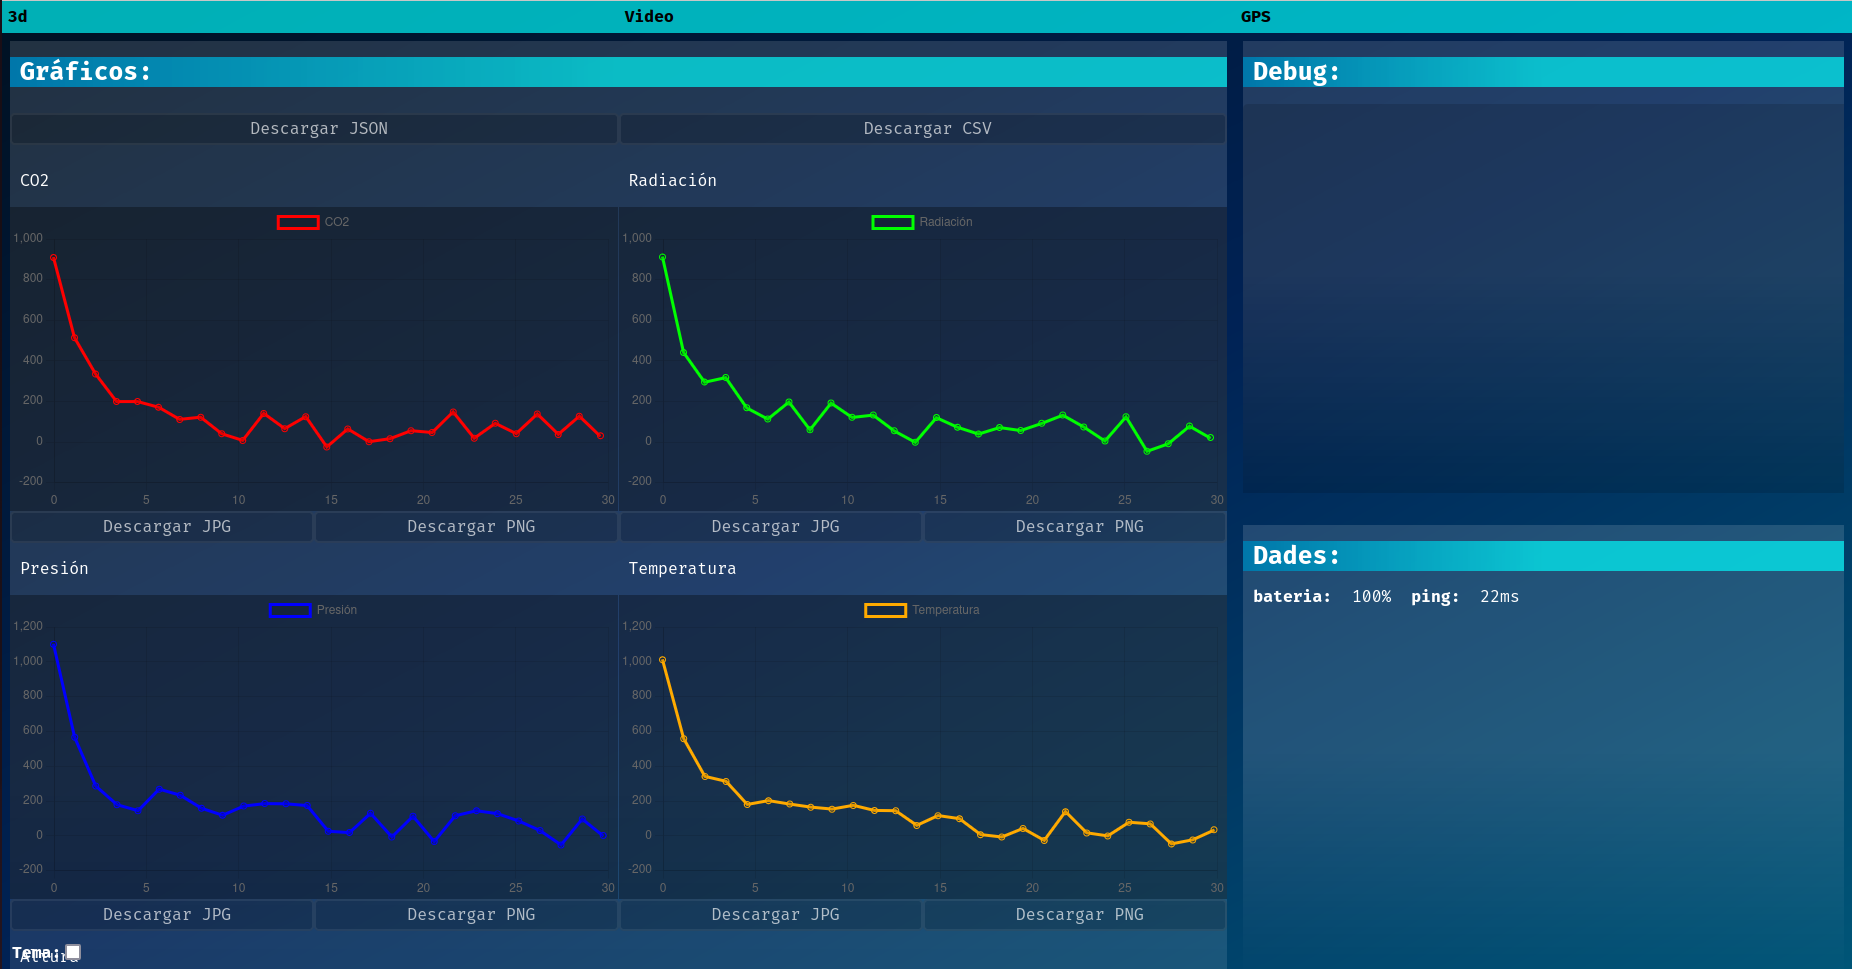
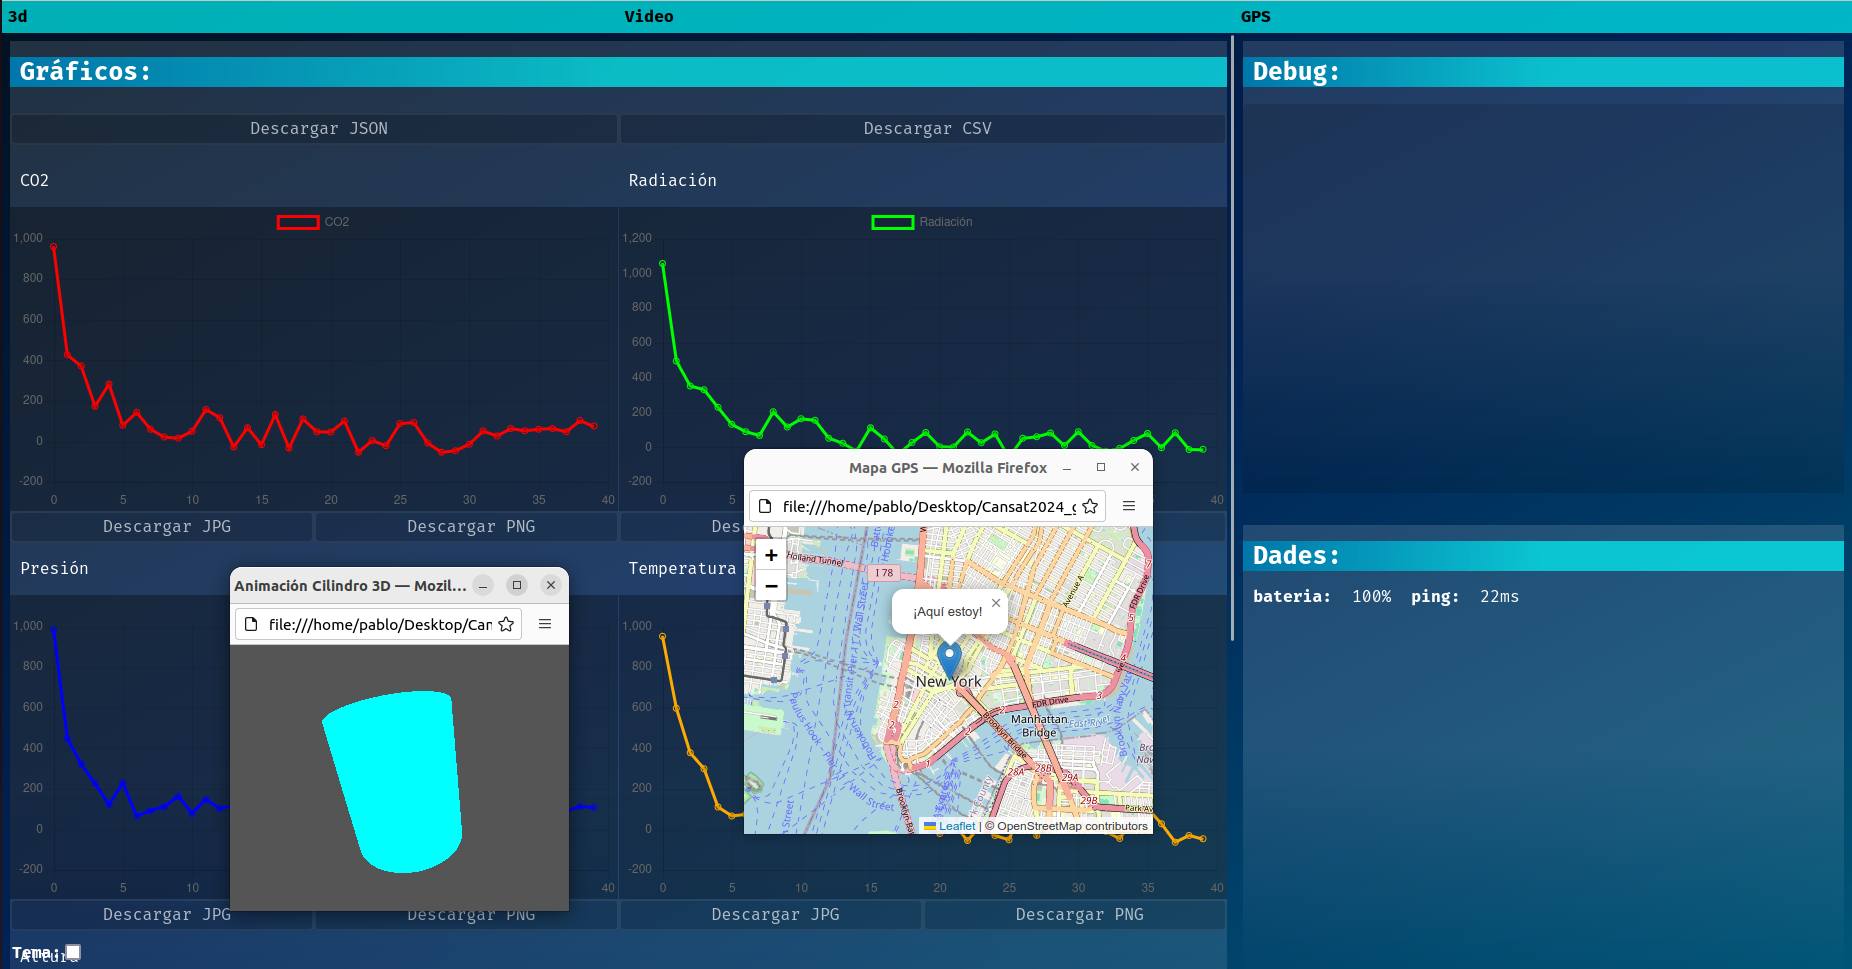
gps, crash solo en segundo plano, and readme

diff --git a/dist/public/parts/gps.html b/dist/public/parts/gps.html
@@ -1,0 +1,34 @@
+<!DOCTYPE html>
+<html lang="en">
+<head>
+  <meta charset="UTF-8">
+  <meta name="viewport" content="width=device-width, initial-scale=1.0">
+  <link rel="stylesheet" href="https://unpkg.com/leaflet/dist/leaflet.css" />
+  <title>Mapa GPS</title>
+  <style>
+    body { margin: 0; }
+    #map { height: 100vh; }
+  </style>
+</head>
+<body>
+
+  <div id="map"></div>
+  
+  <script src="../src/style.js"></script>
+  <script src="https://unpkg.com/leaflet/dist/leaflet.js"></script>
+  <script>
+    var markerCoordinates = [40.7128, -74.0060];
+
+    var map = L.map('map').setView(markerCoordinates, 13);
+
+    L.tileLayer('https://{s}.tile.openstreetmap.org/{z}/{x}/{y}.png', {
+      attribution: '© OpenStreetMap contributors'
+    }).addTo(map);
+
+    L.marker(markerCoordinates).addTo(map)
+      .bindPopup('¡Aquí estoy!')
+      .openPopup();
+  </script>
+</body>
+</html>
+

diff --git a/dist/public/index.html b/dist/public/index.html
@@ -80,9 +80,9 @@
 
 <header>
 
-<b class="windows" onclick="window.open('parts/tresd.html','width=400px','height=400px')">3d</b>
-<b class="windows" onclick="window.open('parts/video.html','width=400px','height=400px')">Video</b>
-<b class="windows" onclick="window.open('parts/sendData.html','width=400px','height=400px')">GPS</b>
+<b class="windows" onclick="window.open('parts/tresd.html', '_blank', 'width=500,height=500')">3d</b>
+<b class="windows" onclick="window.open('parts/video.html', '_blank', 'width=500,height=500')">Video</b>
+<b class="windows" onclick="window.open('parts/gps.html', '_blank', 'width=500,height=500')">GPS</b>
 
 </header>
 
